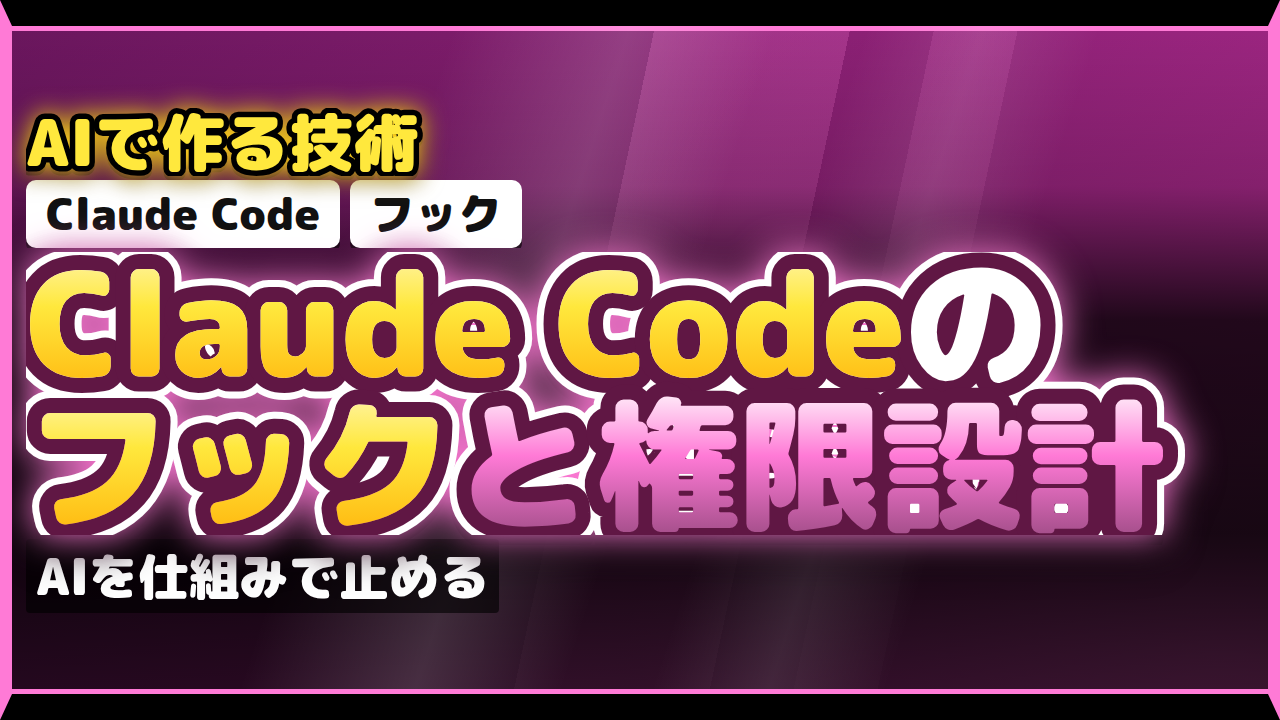
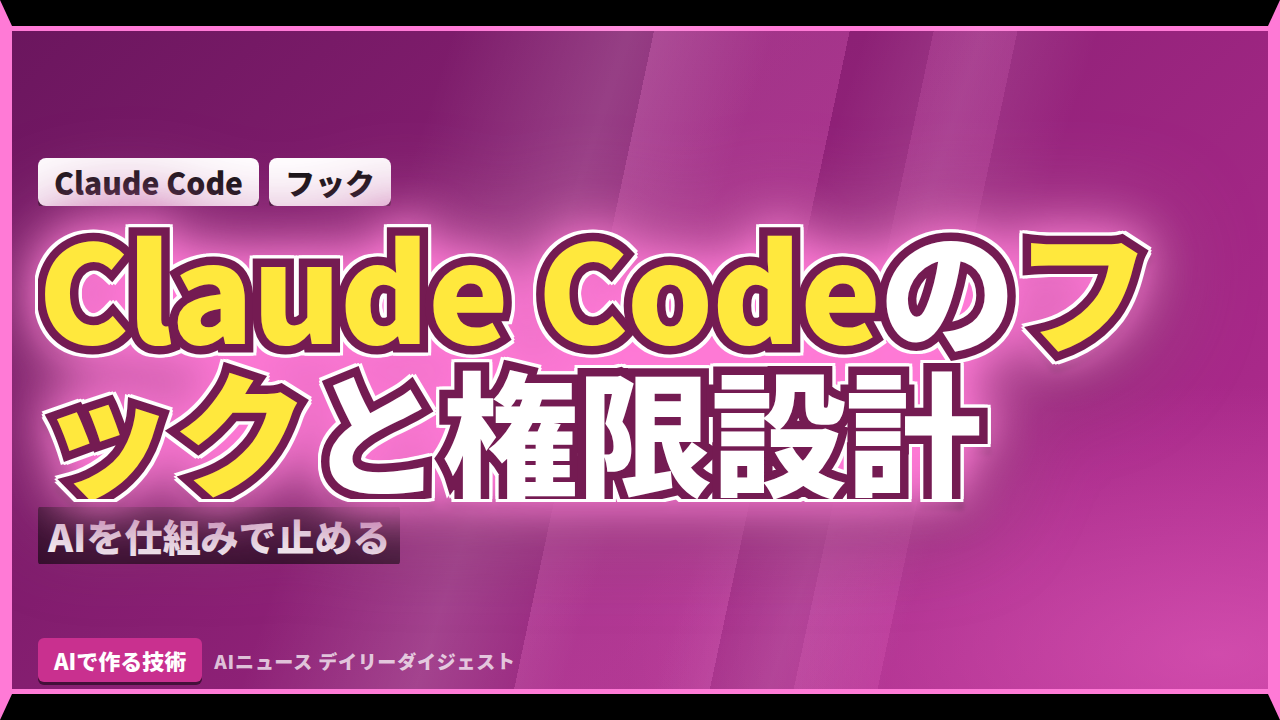
サムネイルのデザインを 70fba34 の状態に戻し、16:9 だけ残した
70fba34 以降に入れた変更を取り消した。取り消したのは次のもの。
- 書体の変更(Noto Sans JP Black → M PLUS Rounded → Dela Gothic One)
- 文字の3層重ね(白の外縁 / 色の内縁 / グラデ塗り)
- 文字の裏を暗くする幕(.scrim)
- 下段のカテゴリ札と媒体名の廃止
- 決め文句を1行に切り出す分割(split_punch)
- それに伴って足した meta.json の thumb 6件

参考チャンネルに寄せようと重ねた変更だが、可読性を落とす方向にも振れ、
まとまりを欠いた。元の「明るい背景＋発光＋白フチ」の版に戻す。

残したもの: YouTube と同じ 16:9(1280x720)。ホームのカードCSSも 16/9。
縦が増えたぶん各段の上限を少し上げ、折り返しの係数を 0.94 → 0.82 にした
(16:9 では 0.94 だと3行に収まらず末尾が "…" で切れる記事があった)。

全25枚を目視確認。1280x720、重複なし、見出しの省略なし。
表示検証52通りで問題なし。

diff --git a/_render_thumbs.py b/_render_thumbs.py
@@ -178,9 +178,7 @@ def size_for(text, avail_px, avail_h, cap, floor, max_lines=3, lh=1.16):
     import math
     w = dwidth(text) or 1
     for px in range(cap, floor - 1, -2):
-        # auto-phrase は文節で折るため、行末に余りが出て1行の実効量が減る。
-        # 係数を甘くすると3行に収まらず末尾が "…" で切れる(実測して下げた)。
-        per_line = 2 * avail_px / px * 0.78
+        per_line = 2 * avail_px / px * 0.82      # 1行に入る表示幅(余裕を見る)
         lines = max(1, math.ceil(w / per_line))
         if lines <= max_lines and lines * px * lh <= avail_h:
             return px, lines
@@ -232,9 +230,6 @@ def build_html(meta, dirname):
     thumb = meta.get("thumb") or {}
     hook, main, sub = split_title(title)
     hook = thumb.get("hook", hook)
-    # デイリー以外はフックが空。下段のカテゴリ札を廃止したので、ここに置く。
-    if not hook:
-        hook = meta.get("category", "")
     main = thumb.get("main", main)
     sub = thumb.get("sub", sub)
 
@@ -258,32 +253,25 @@ def build_html(meta, dirname):
     bg2 = _mix(t["bg2"], t["accent"], tone["mix"] * 0.6)
 
     # 使える横幅。左右パディング26px + 枠12px + キャラのぶんを引く
-    avail = WIDTH - 2 * 12 - 2 * 14 - chara_w
-    card_px = 44
-    hook_px = size_for(hook, avail, 84, 64, 32, 1, 1.06)[0] if hook else 0
+    avail = WIDTH - 2 * 12 - 2 * 26 - chara_w
+    card_px = 30
+    hook_px = size_for(hook, avail, 78, 52, 28, 1, 1.06)[0] if hook else 0
 
     # 上下の帯・フック・カード・補足・フッターを引いた残りが主役の高さ
-    used = 26 * 2 + 12 + 10                      # 黒帯 + 上下パディング
-    used += int(hook_px * 1.06) + 4 if hook else 0
-    used += (card_px + 24 + 4) if cards_src else 0
-    sub_px = size_for(sub, avail, 120, 50, 30, 2, 1.5)[0] if sub else 0
-    used += int(sub_px * 1.5) + 4 if sub else 0
-    main_h = max(190, HEIGHT - used)
-    # lh は CSS の line-height と必ず揃える。ズレると文字が小さく見積もられる
-    main_px, main_lines = size_for(main, avail, main_h, 200, 58, 3, 0.98)
-    stroke_px = max(16, int(main_px * 0.21))      # 色の内縁(太くする。ここが主役)
-    white_px = max(24, int(main_px * 0.31))       # 白の外縁
-    grad_dark = _mix(t["accent"], "#000000", 0.35)  # グラデ下端
+    used = 26 * 2 + 14 + 12                      # 黒帯 + 上下パディング
+    used += int(hook_px * 1.06) + 6 if hook else 0
+    used += (card_px + 18 + 6) if cards_src else 0
+    used += 34 + 6                               # フッター
+    sub_px = size_for(sub, avail, 108, 38, 24, 2, 1.15)[0] if sub else 0
+    used += int(sub_px * 1.15 * 2) + 6 if sub else 0
+    main_h = max(170, HEIGHT - used)
+    main_px, main_lines = size_for(main, avail, main_h, 150, 54)
+    stroke_px = max(9, int(main_px * 0.13))
     # 縁の色。chip をそのまま使うと、黄色系のテーマで背景と同化して読めない。
     # 黒を混ぜて必ず背景より暗くする。
-    # 内縁は必ず背景より暗くする。テーマ色をそのまま使うと、黄・橙・緑・
-    # マゼンタのテーマで背景と同系色になり、文字が溶けて読めなくなる(実測)。
-    stroke_col = _mix(t["chip"], "#000000", 0.52)
+    stroke_col = _mix(t["chip"], "#000000", 0.42)
 
-    # 参考にしたサムネの書体は、線の太さが均一で角が丸く、字幅が広い。
-    # Noto Sans JP Black は角ばっていて字幅が狭く、並べると明らかに細く見える。
-    # M PLUS Rounded 1c の Black に差し替えた(実際に並べて比較して決めた)。
-    faces = (font_face("Thumb", "MPLUSRounded1c-Black.ttf", 900)
+    faces = (font_face("NotoJP", "NotoSansJP-Black.ttf", 900)
              + font_face("NotoJP", "NotoSansJP-Regular.ttf", 400))
 
     cards = "".join(f'<span class="card">{e(x)}</span>' for x in cards_src)
@@ -292,7 +280,7 @@ def build_html(meta, dirname):
 {faces}
 *{{margin:0;padding:0;box-sizing:border-box}}
 html,body{{width:{WIDTH}px;height:{HEIGHT}px}}
-body{{font-family:'Thumb','NotoJP','IPAGothic',sans-serif;background:#000}}
+body{{font-family:'NotoJP','IPAGothic',sans-serif;background:#000}}
 .frame{{
   position:relative;width:{WIDTH}px;height:{HEIGHT}px;overflow:hidden;
   background:
@@ -304,15 +292,6 @@ body{{font-family:'Thumb','NotoJP','IPAGothic',sans-serif;background:#000}}
 /* 背景の柄。日付で切り替わる(PATTERNS) */
 .pat{{position:absolute;inset:0;background:{pattern};pointer-events:none}}
 /* 斜めの光沢。ギラつきを足す */
-/* 主役文字の後ろだけ暗くする幕。
-   参考にしたサムネは、背景全体は明るいのに**パンチラインの裏だけ暗い**。
-   これがないと極太の白フチが明るい背景に溶けて、まったく飛び出さない。 */
-.scrim{{
-  position:absolute;inset:0;pointer-events:none;
-  background:linear-gradient(180deg,
-    transparent 0%, rgba(0,0,0,.18) 24%, rgba(0,0,0,.80) 44%,
-    rgba(0,0,0,.88) 76%, rgba(0,0,0,.72) 100%);
-}}
 .shine{{
   position:absolute;inset:0;pointer-events:none;
   background:
@@ -328,7 +307,7 @@ body{{font-family:'Thumb','NotoJP','IPAGothic',sans-serif;background:#000}}
 }}
 .stack{{
   position:absolute;inset:0;z-index:3;
-  padding:10px 14px 8px;display:flex;flex-direction:column;gap:4px;justify-content:center;
+  padding:14px 26px 12px;display:flex;flex-direction:column;gap:8px;justify-content:center;
   padding-right:{26 + chara_w}px;
 }}
 /* 黄色の極太フック。黒の太縁で抜く */
@@ -342,52 +321,31 @@ body{{font-family:'Thumb','NotoJP','IPAGothic',sans-serif;background:#000}}
 .cards{{display:flex;gap:10px;align-items:center;overflow:hidden}}
 .card{{
   background:#fff;color:#111;font-weight:900;font-size:{card_px}px;line-height:1;
-  padding:12px 20px;border-radius:10px;white-space:nowrap;
-  box-shadow:0 5px 0 rgba(0,0,0,.6);
+  padding:9px 16px;border-radius:8px;white-space:nowrap;
+  box-shadow:0 4px 0 rgba(0,0,0,.55);
 }}
 /* 主役。白抜き＋テーマ色の極太縁＋黒のフチ */
 .main{{
-  position:relative;font-weight:900;font-size:{main_px}px;line-height:0.98;
-  letter-spacing:-.012em;
-  word-break:auto-phrase;line-break:strict;overflow-wrap:break-word;
-}}
-/* 参考にしたサムネの文字は、外から順に
-   「暗いグロー → 極太の白フチ → 暗い内縁 → 白〜テーマ色のグラデ塗り」の4層。
-   1つの要素では作れないので、同じ文字を3枚重ねる。
-   (1枚で background-clip:text と太い text-stroke を併用すると文字が潰れる) */
-.main span{{
-  display:block;
-  word-break:auto-phrase;line-break:strict;overflow-wrap:break-word;
-  -webkit-line-clamp:{main_lines};-webkit-box-orient:vertical;
-  display:-webkit-box;overflow:hidden;
-}}
-.main .l1, .main .l2{{position:absolute;top:0;left:0;width:100%}}
-.main .l3{{position:relative}}
-/* 1枚目: 極太の白フチ＋発光＋落ち影 */
-.main .l1{{
-  color:transparent;-webkit-text-stroke:{white_px}px #fff;paint-order:stroke;
+  font-weight:900;font-size:{main_px}px;line-height:1.05;
+  /* 塗りは白。内側に暗い縁を入れ、外側に白フチ＋発光を足す。
+     background-clip:text でグラデーションにすると、太い text-stroke と
+     干渉して文字が潰れる(実測)。塗りは単色に留める。 */
+  color:#fff;
+  -webkit-text-stroke:{stroke_px}px {stroke_col};paint-order:stroke fill;
+  /* 外側に白のフチを4方向から。さらにテーマ色で発光させる */
   filter:
-    drop-shadow(0 0 18px {t['accent']})
-    drop-shadow(0 10px 0 rgba(0,0,0,.45)) drop-shadow(0 14px 8px rgba(0,0,0,.4));
+    drop-shadow(3px 0 0 #fff) drop-shadow(-3px 0 0 #fff)
+    drop-shadow(0 3px 0 #fff) drop-shadow(0 -3px 0 #fff)
+    drop-shadow(0 0 22px {t['accent']}) drop-shadow(0 0 44px {t['accent']})
+    drop-shadow(0 8px 2px rgba(0,0,0,.6));
+  overflow-wrap:anywhere;letter-spacing:-.01em;
+  display:-webkit-box;-webkit-line-clamp:{main_lines};-webkit-box-orient:vertical;overflow:hidden;
 }}
-/* 2枚目: 暗い内縁 */
-.main .l2{{
-  color:transparent;-webkit-text-stroke:{stroke_px}px {stroke_col};paint-order:stroke;
-}}
-/* 3枚目: 白→テーマ色のグラデーション塗り */
-.main .l3{{
-  background:linear-gradient(180deg,#ffffff 0%,#ffffff 46%,{t['accent']} 72%,{grad_dark} 100%);
-  -webkit-background-clip:text;-webkit-text-fill-color:transparent;
-}}
-.main .l1 em, .main .l2 em{{font-style:normal}}
-.main .l3 em{{
-  font-style:normal;
-  background:linear-gradient(180deg,#fffbe0 0%,#ffe83d 42%,#ffa800 100%);
-  -webkit-background-clip:text;-webkit-text-fill-color:transparent;
-}}
+.main em{{font-style:normal;color:#ffe83d}}
+/* 補足。白＋黒縁 */
+/* 補足。背景が明るいと白文字が負けるので、暗い下地を敷く */
 .sub{{
   color:#fff;font-weight:900;font-size:{sub_px}px;line-height:1.5;
-  word-break:auto-phrase;line-break:strict;overflow-wrap:break-word;
   display:-webkit-box;-webkit-line-clamp:2;-webkit-box-orient:vertical;overflow:hidden;
 }}
 .sub b{{
@@ -395,17 +353,26 @@ body{{font-family:'Thumb','NotoJP','IPAGothic',sans-serif;background:#000}}
   padding:2px 10px;border-radius:4px;
   box-decoration-break:clone;-webkit-box-decoration-break:clone;
 }}
+.foot{{
+  position:absolute;left:26px;bottom:12px;display:flex;align-items:center;gap:12px;
+}}
+.cat{{
+  background:{t['chip']};color:#fff;font-weight:900;font-size:22px;
+  padding:6px 16px;border-radius:6px;white-space:nowrap;
+  box-shadow:0 3px 0 rgba(0,0,0,.5);
+}}
+.site{{color:#ffffffbb;font-weight:900;font-size:19px;letter-spacing:.04em;white-space:nowrap}}
 .chara{{position:absolute;right:14px;bottom:26px;width:{chara_w}px;height:auto;z-index:2}}
 </style></head><body><div class="frame">
   <div class="pat"></div>
-  <div class="scrim"></div>
   <div class="shine"></div>
   {chara}
   <div class="stack">
     {f'<div class="hook">{e(hook)}</div>' if hook else ''}
     {f'<div class="cards">{cards}</div>' if cards else ''}
-    <div class="main"><span class="l1">{main_html}</span><span class="l2">{main_html}</span><span class="l3">{main_html}</span></div>
+    <div class="main">{main_html}</div>
     {f'<div class="sub"><b>{e(sub)}</b></div>' if sub else ''}
+    <div class="foot"><span class="cat">{e(cat)}</span><span class="site">AIニュース デイリーダイジェスト</span></div>
   </div>
 </div></body></html>"""
 
